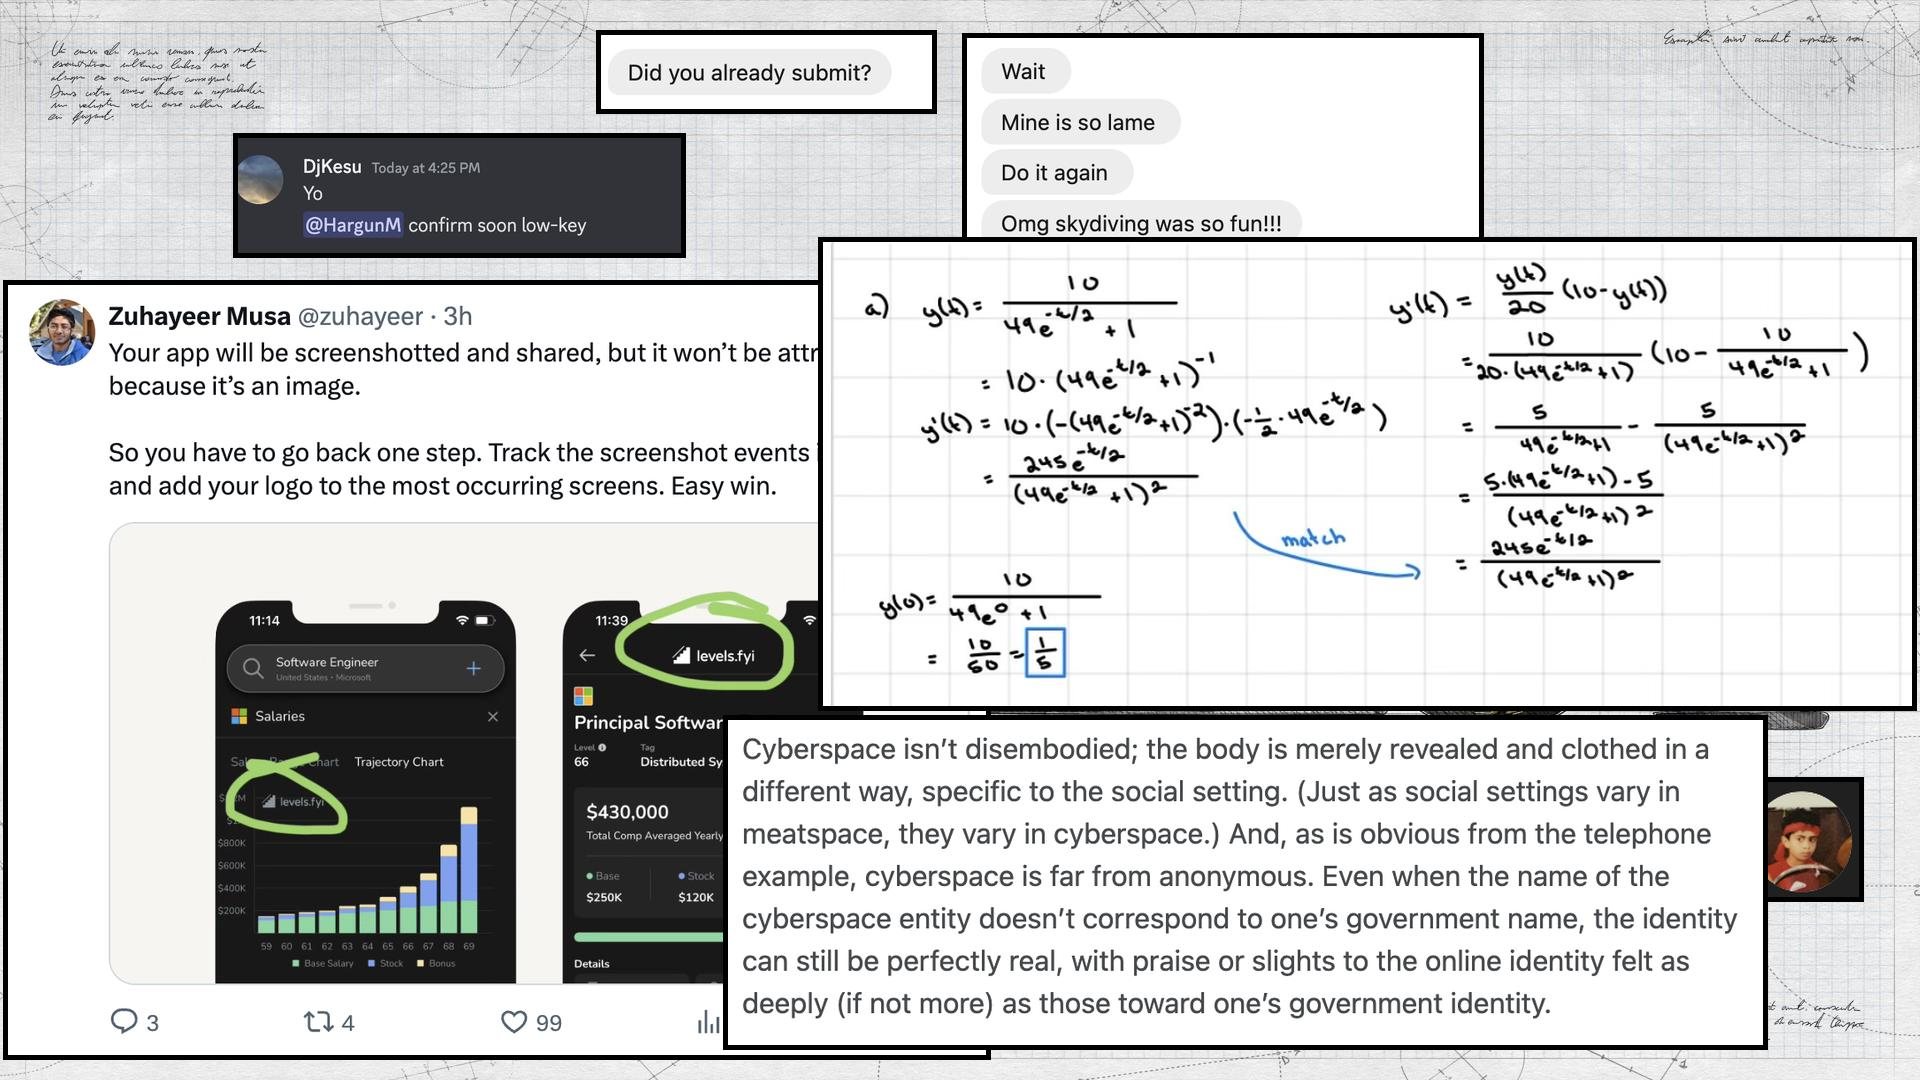
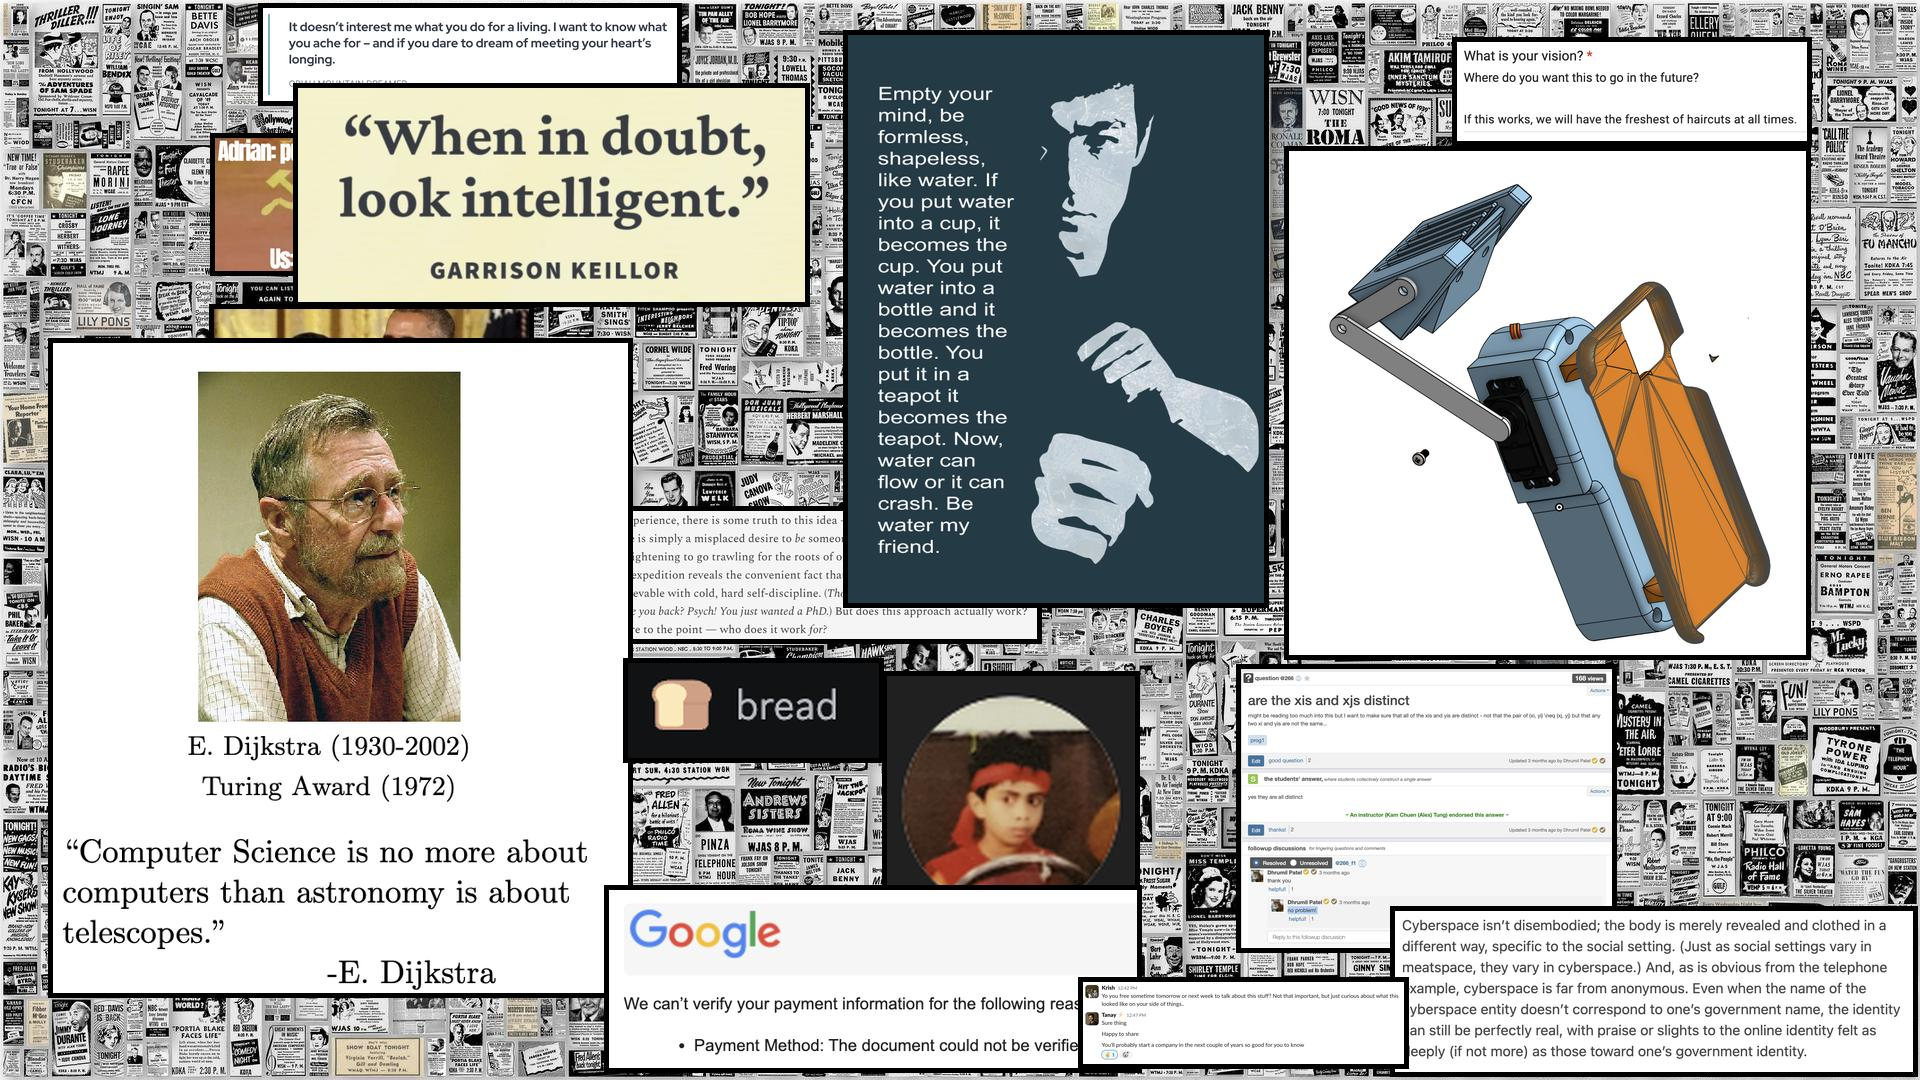
make the most recent image be at the front

diff --git a/scrapbook.py b/scrapbook.py
@@ -3,22 +3,36 @@ import random
 from PIL import Image, ImageOps
 from datetime import datetime
 
-base_image_path = '/Users/krishshah/Pictures/Wallpapers/base.jpg'  # Update this path
-input_folder = '/Users/krishshah/Pictures/Wallpapers/Scrapbook'  # Replace with your folder path
-output_folder = '/Users/krishshah/Pictures/Wallpapers/Current/'
-output_name = 'scrapbook.jpg'
+base_image_path = "/Users/krishshah/Pictures/Wallpapers/base.jpg"  # Update this path
+input_folder = (
+    "/Users/krishshah/Pictures/Wallpapers/Scrapbook"  # Replace with your folder path
+)
+output_folder = "/Users/krishshah/Pictures/Wallpapers/Current/"
+output_name = "scrapbook.jpg"
+
+supported_formats = [".jpg", ".jpeg", ".png", ".bmp", ".gif"]
 
 target_width = 400
+
 
 def get_datetime_string():
     now = datetime.now()
     return now.strftime("%Y%m%d_%H%M%S")
 
+
 def load_images_from_folder(folder, base_image_path):
-    supported_formats = ['.jpg', '.jpeg', '.png', '.bmp', '.gif']
-    files = [os.path.join(folder, f) for f in os.listdir(folder) if os.path.isfile(os.path.join(folder, f))]
-    image_paths = [f for f in files if os.path.splitext(f)[1].lower() in supported_formats and f != base_image_path]
+    files = [
+        os.path.join(folder, f)
+        for f in os.listdir(folder)
+        if os.path.isfile(os.path.join(folder, f))
+    ]
+    image_paths = [
+        f
+        for f in files
+        if os.path.splitext(f)[1].lower() in supported_formats and f != base_image_path
+    ]
     return image_paths
+
 
 def resize_and_add_border(image, scale_factor, border_size=5):
     # first we resize each image to be same width
@@ -28,11 +42,12 @@ def resize_and_add_border(image, scale_factor, border_size=5):
     # Resize image according to the scale factor
     new_size = (int(target_width * scale_factor), int(new_height * scale_factor))
     resized_image = image.resize(new_size, Image.Resampling.LANCZOS)
-    
+
     # Add a black border
-    bordered_image = ImageOps.expand(resized_image, border=border_size, fill='black')
-    
+    bordered_image = ImageOps.expand(resized_image, border=border_size, fill="black")
+
     return bordered_image
+
 
 def calculate_overlap(new_img_area, occupied_areas):
     new_x, new_y, new_w, new_h = new_img_area
@@ -45,9 +60,10 @@ def calculate_overlap(new_img_area, occupied_areas):
             overlap_area += overlap_width * overlap_height
     return overlap_area
 
+
 def find_placement_for_image(img, occupied_areas, wallpaper_size):
     best_position = None
-    min_overlap = float('inf')
+    min_overlap = float("inf")
     for attempt in range(100):  # Attempt placement 100 times to find a good position
         # Ensure x and y ranges are valid
         max_x = max(wallpaper_size[0] - img.width, 1)
@@ -68,9 +84,22 @@ def find_placement_for_image(img, occupied_areas, wallpaper_size):
 
     return best_position
 
-def create_wallpaper_with_base(base_image_path, input_folder, output_path, wallpaper_size=(1920, 1080), border_size=5):
+
+def create_wallpaper_with_base(
+    base_image_path,
+    input_folder,
+    output_path,
+    wallpaper_size=(1920, 1080),
+    border_size=5,
+):
     base_image = Image.open(base_image_path).resize(wallpaper_size)
     image_paths = load_images_from_folder(input_folder, base_image_path)
+
+    # ensures the newest image won't be behind others
+    image_paths.sort(key=os.path.getmtime)
+    # randomize all images except for last
+    random.shuffle(image_paths[:-1])
+
     images = [Image.open(path) for path in image_paths]
 
     wallpaper = base_image.copy()
@@ -83,7 +112,9 @@ def create_wallpaper_with_base(base_image_path, input_folder, output_path, wallp
         position = find_placement_for_image(img, occupied_areas, wallpaper_size)
         if position:
             x, y = position
-            wallpaper.paste(img, (x, y), img.convert('RGBA') if img.mode == 'RGBA' else None)
+            wallpaper.paste(
+                img, (x, y), img.convert("RGBA") if img.mode == "RGBA" else None
+            )
             occupied_areas.append((x, y, img.width, img.height))
 
     wallpaper.save(output_path)
@@ -96,4 +127,6 @@ for file in os.listdir(output_folder):
     if output_name in file:
         os.remove(output_folder + file)
 
-create_wallpaper_with_base(base_image_path, input_folder, output_path + get_datetime_string() + '.jpg')
+create_wallpaper_with_base(
+    base_image_path, input_folder, output_path + get_datetime_string() + ".jpg"
+)

diff --git a/README.md b/README.md
@@ -4,6 +4,8 @@ This is a script that takes a folder of images and a base image, and turns it in
 
 ![Example Scrapbook](_images/scrapbook.jpg)
 
+_The script ensures your most recent screenshot is at the front!_
+
 ## How to use
 
 1. Clone the repository
